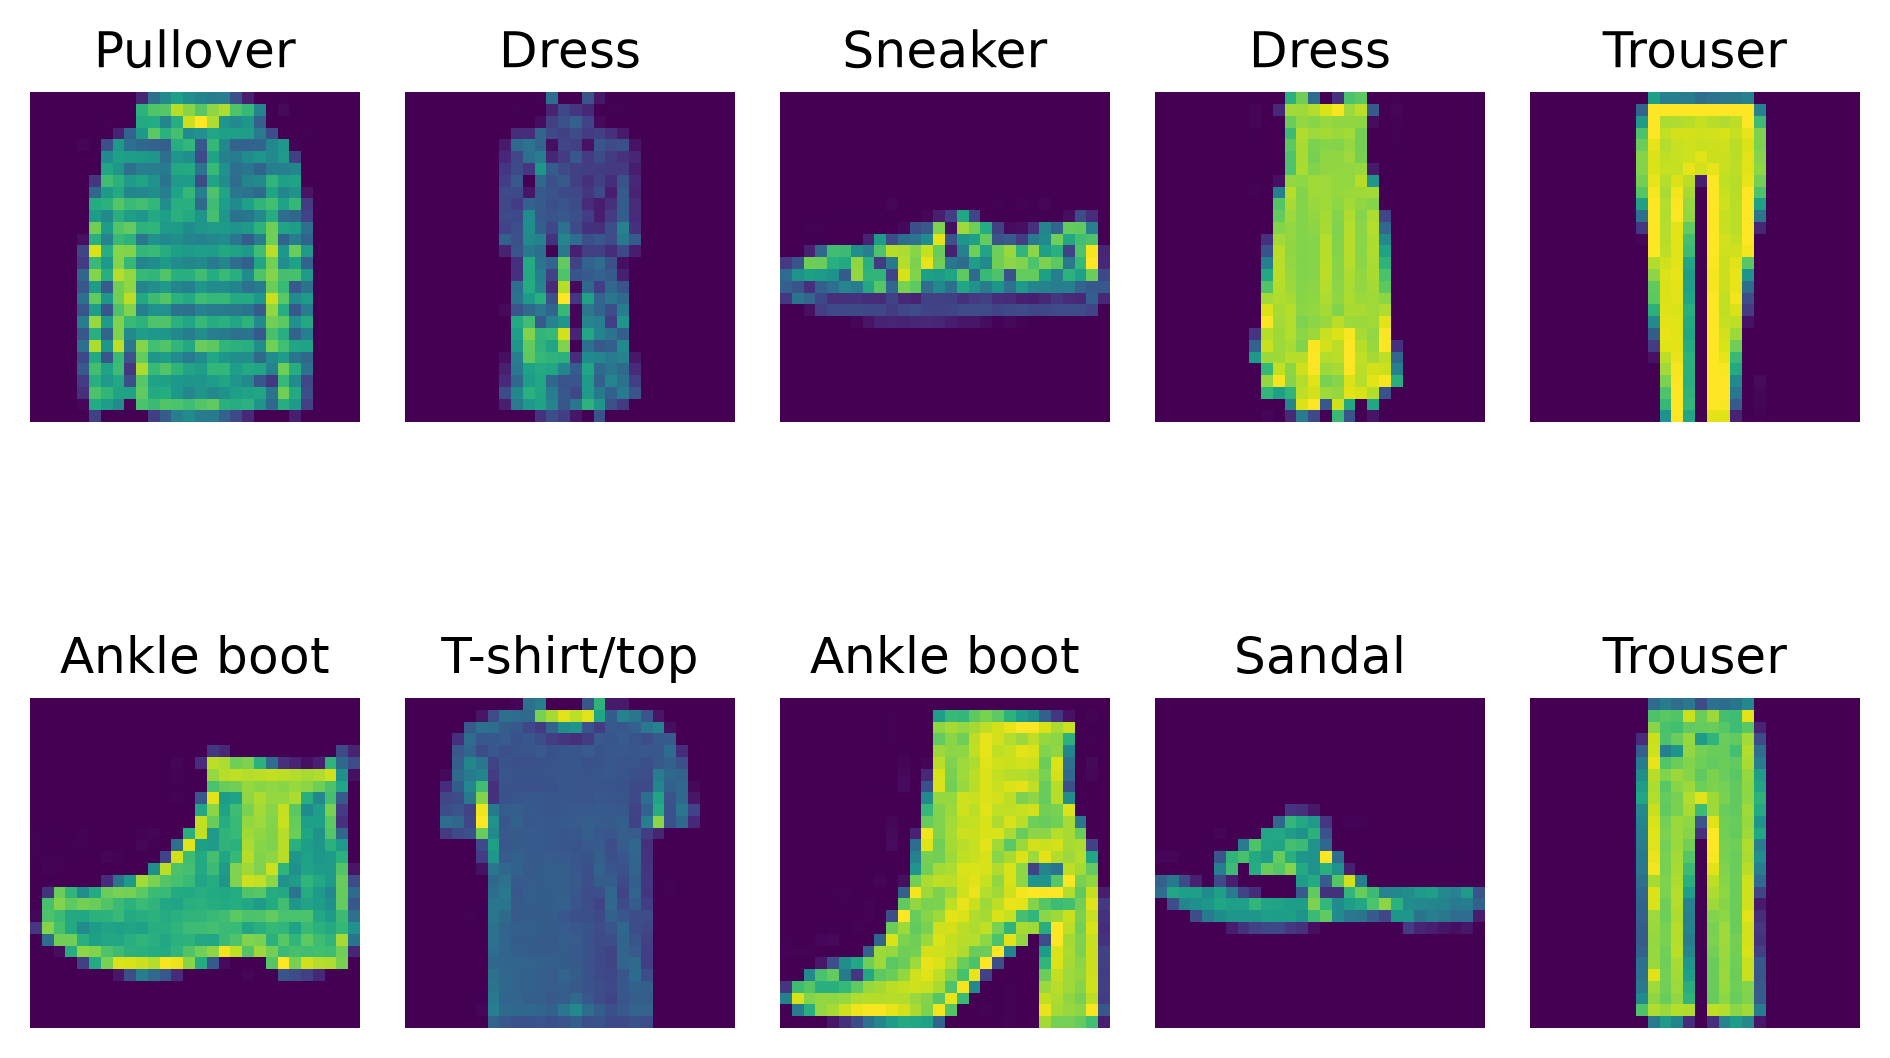
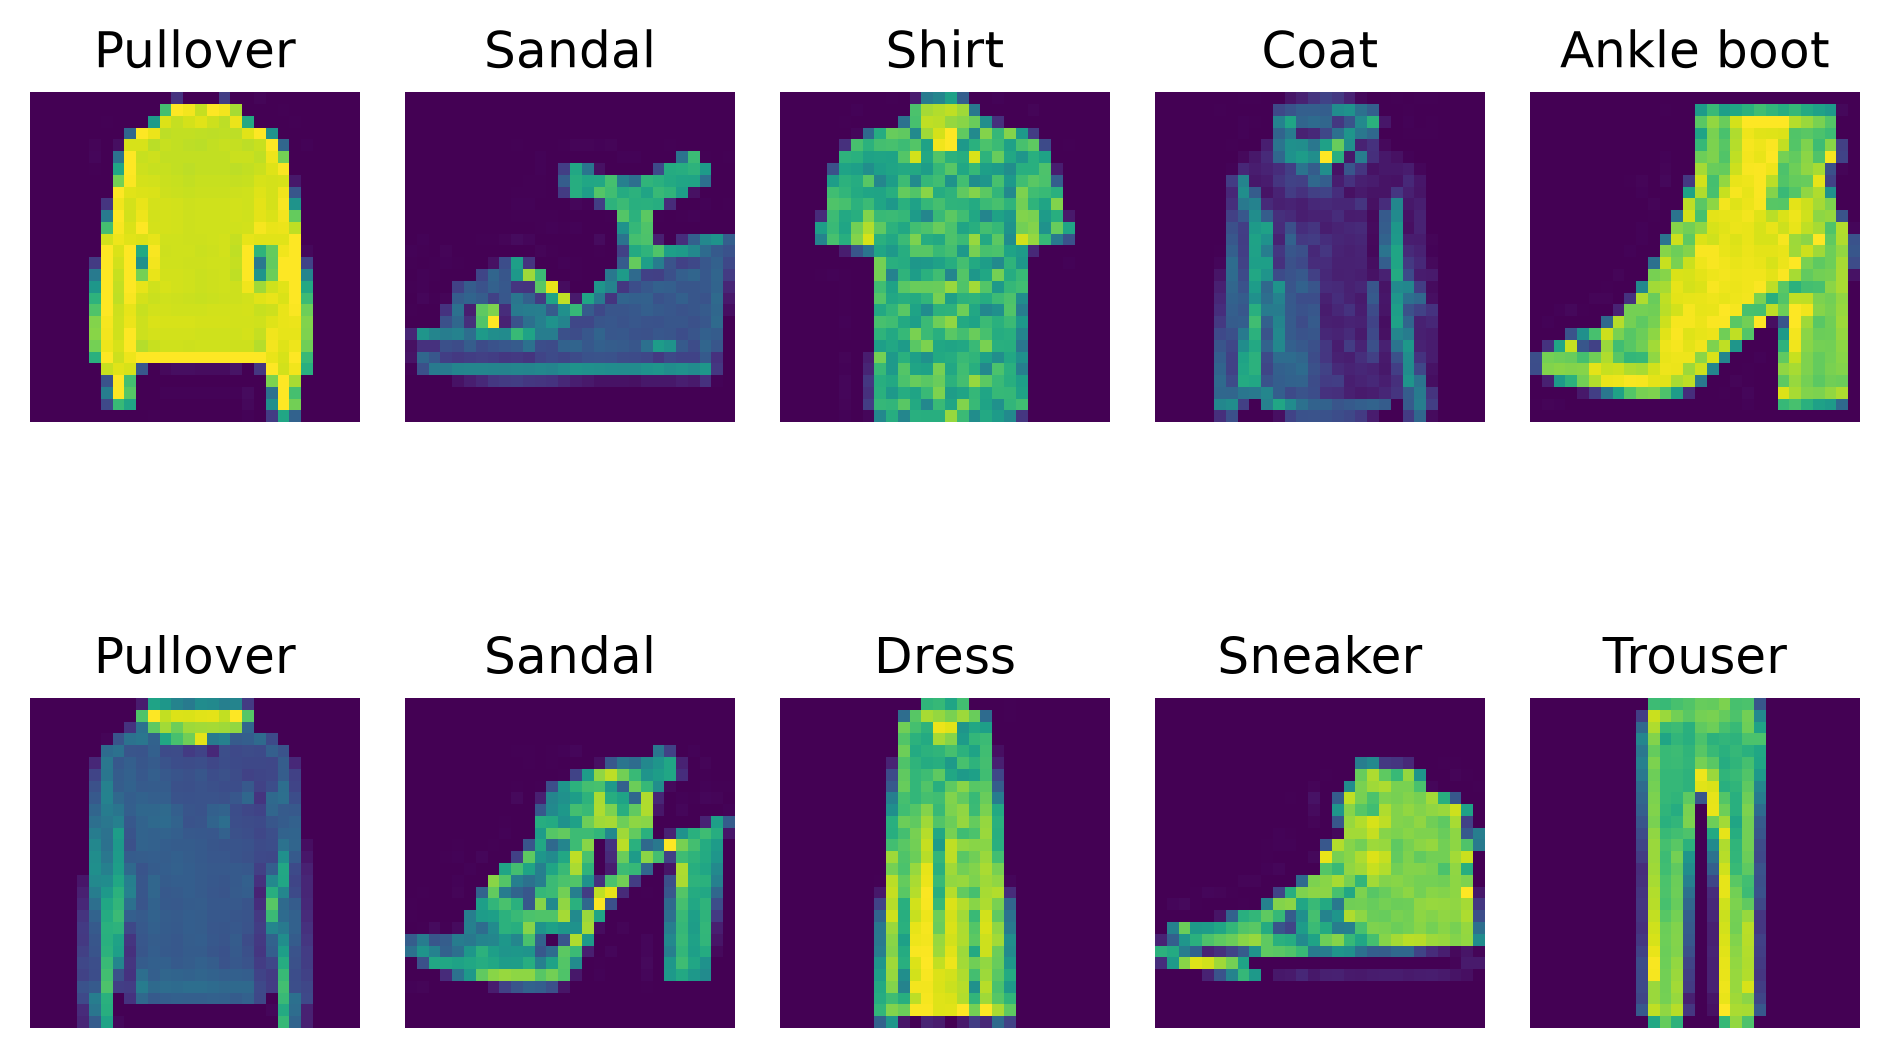
Update multi-NPU training example on donaldsebleung-NucBox-K11

diff --git a/donaldsebleung-NucBox-K11/01-multi-npu-training/00-mindspore-hccl-lenet/main.py b/donaldsebleung-NucBox-K11/01-multi-npu-training/00-mindspore-hccl-lenet/main.py
@@ -42,7 +42,7 @@ def transform_ds(dataset, batch_size):
 MLflow logging callback with accuracy
 """
 class MLflowLogging(Callback):
-    def __init__(self, run_name, network_type, loss_fn, learning_rate, batch_size, epochs, weight_decay=0.0, momentum=0.0, optimizer='sgd'):
+    def __init__(self, run_name, network_type, loss_fn, learning_rate, batch_size, epochs, num_shards, shard_id, weight_decay=0.0, momentum=0.0, optimizer='sgd'):
         super().__init__()
         self.run_name = run_name
         self.network_type = network_type
@@ -53,6 +53,8 @@ class MLflowLogging(Callback):
         self.weight_decay = weight_decay
         self.momentum = momentum
         self.optimizer = optimizer
+        self.num_shards = num_shards
+        self.shard_id = shard_id
 
         self.run = mlflow.start_run(run_name=self.run_name)
         hyperparameters = {
@@ -63,7 +65,9 @@ class MLflowLogging(Callback):
             'optimizer': self.optimizer,
             'batch_size': self.batch_size,
             'network_type': self.network_type,
-            'epochs': self.epochs
+            'epochs': self.epochs,
+            'num_shards': num_shards,
+            'shard_id': shard_id
         }
         mlflow.log_params(hyperparameters)
 
@@ -103,9 +107,8 @@ def main():
         print(f'Using MLflow tracking URI: {MLFLOW_TRACKING_URI}')
         print(f'Using Matplotlib backend: {MPLBACKEND}')
 
-    if rank_id == 0:
-        experiment_name = '01-multi-npu-training'
-        experiment = mlflow.set_experiment(experiment_name=experiment_name)
+    experiment_name = '01-multi-npu-training'
+    experiment = mlflow.set_experiment(experiment_name=experiment_name)
 
     dataset_dir = 'data/fashion/'
     if rank_id == 0:
@@ -233,19 +236,19 @@ def main():
         optimizer=optimizer,
         metrics={'accuracy', 'loss'}
     )
-    callbacks = []
-    if rank_id == 0:
-        callbacks.extend([
-            LossMonitor(per_print_times=10),
-            MLflowLogging(
-                run_name=run_name,
-                network_type=network_type,
-                loss_fn=loss_fn_str,
-                learning_rate=learning_rate,
-                batch_size=batch_size,
-                epochs=epochs
-            )
-        ])
+    callbacks = [
+        LossMonitor(per_print_times=10),
+        MLflowLogging(
+            run_name=f'{run_name}-rank-{rank_id}',
+            network_type=network_type,
+            loss_fn=loss_fn_str,
+            learning_rate=learning_rate,
+            batch_size=batch_size,
+            epochs=epochs,
+            num_shards=rank_size,
+            shard_id=rank_id
+        )
+    ]
     model.fit(
         epoch=epochs,
         train_dataset=train_ds,
